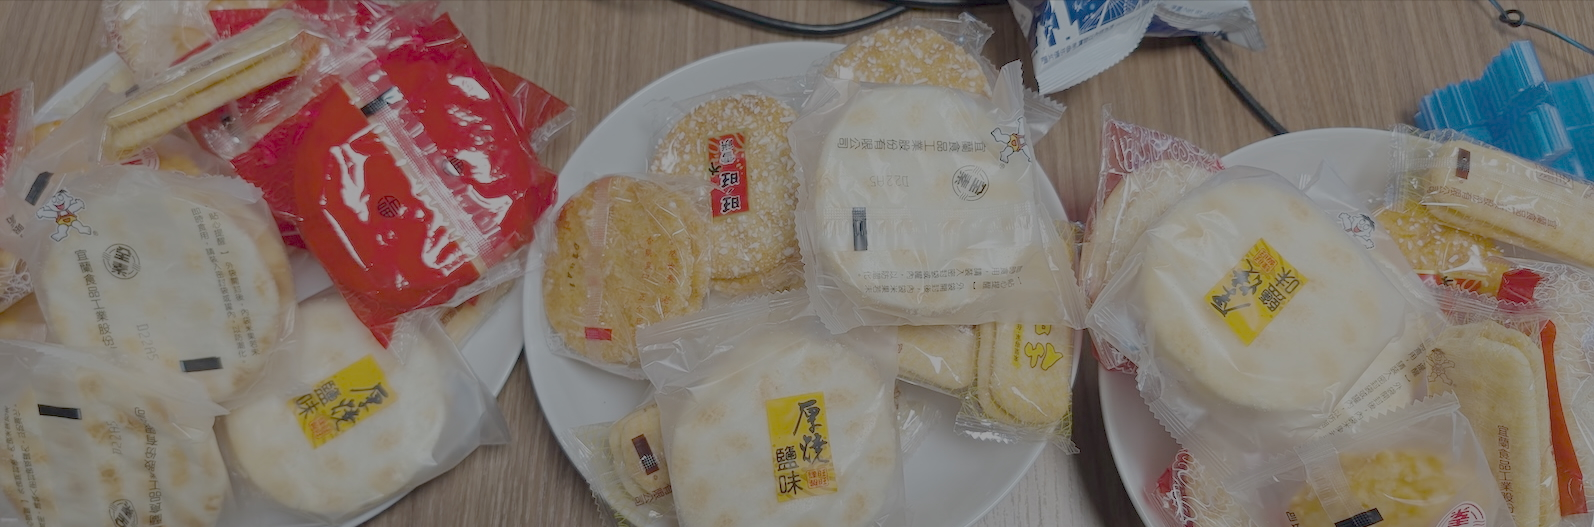
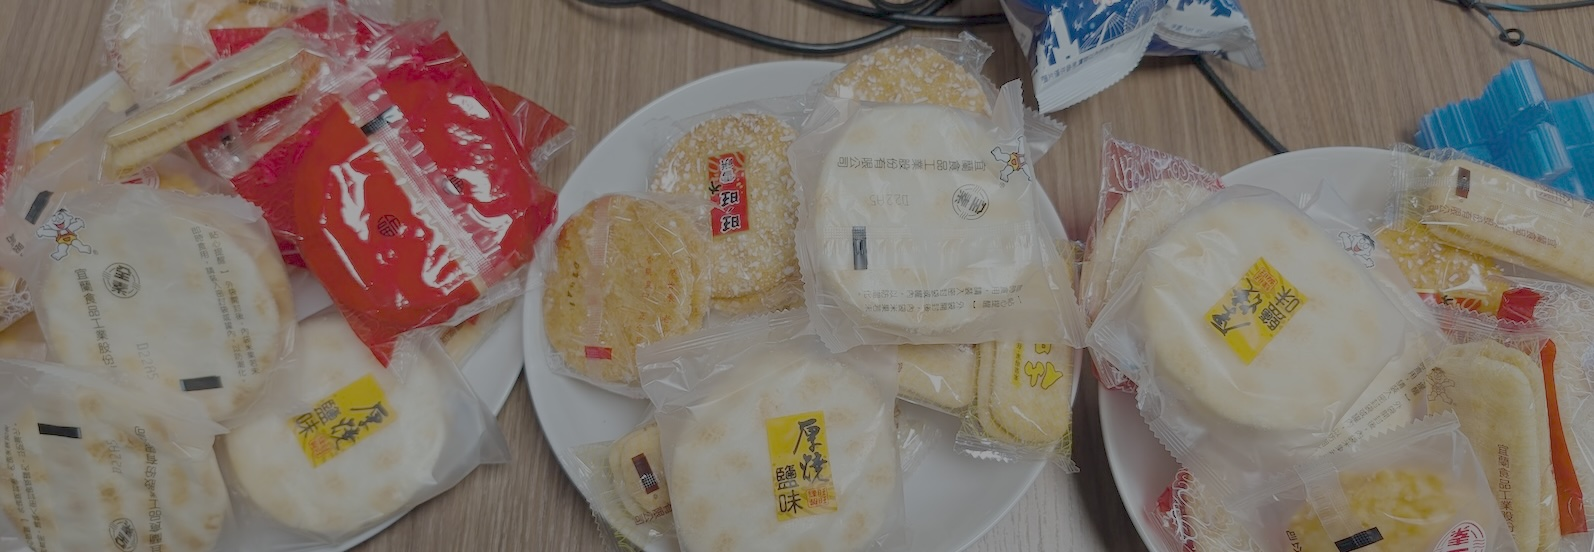
Revert "Improved the images quality"
This reverts commit 8f2b9e2d1477ad9ed4043742d3695914f724defc.

diff --git a/app/src/main/java/com/jiahaoliuliu/coilimagecaching/ImagesProvider.kt b/app/src/main/java/com/jiahaoliuliu/coilimagecaching/ImagesProvider.kt
@@ -9,14 +9,4 @@ object ImagesProvider {
             "https://raw.githubusercontent.com/jiahaoliuliu/CoilImageCaching/refs/heads/main/images/Sagrada%20familia.jpg",
             "https://raw.githubusercontent.com/jiahaoliuliu/CoilImageCaching/refs/heads/main/images/Snow.jpg",
         )
-
-    fun provideCroppedImages() =
-        listOf(
-            "https://raw.githubusercontent.com/jiahaoliuliu/CoilImageCaching/refs/heads/memoryOptimization/imagesCropped/Coffee.jpg",
-            "https://raw.githubusercontent.com/jiahaoliuliu/CoilImageCaching/refs/heads/memoryOptimization/imagesCropped/Cookies.jpg",
-            "https://raw.githubusercontent.com/jiahaoliuliu/CoilImageCaching/refs/heads/memoryOptimization/imagesCropped/Pastel%20de%20Belen.jpg",
-            "https://raw.githubusercontent.com/jiahaoliuliu/CoilImageCaching/refs/heads/memoryOptimization/imagesCropped/Sagrada%20familia.jpg",
-            "https://raw.githubusercontent.com/jiahaoliuliu/CoilImageCaching/refs/heads/memoryOptimization/imagesCropped/Snow.jpg",
-        )
-
 }

diff --git a/app/src/main/java/com/jiahaoliuliu/coilimagecaching/MainActivity.kt b/app/src/main/java/com/jiahaoliuliu/coilimagecaching/MainActivity.kt
@@ -33,8 +33,7 @@ class MainActivity : ComponentActivity() {
     override fun onCreate(savedInstanceState: Bundle?) {
         super.onCreate(savedInstanceState)
         enableEdgeToEdge()
-//        val imagesList = ImagesProvider.provideOriginalImages()
-        val imagesList = ImagesProvider.provideCroppedImages()
+        val imagesList = ImagesProvider.provideOriginalImages()
         val contentScale = ContentScale.Crop
         setContent {
             CoilImageCachingTheme {
